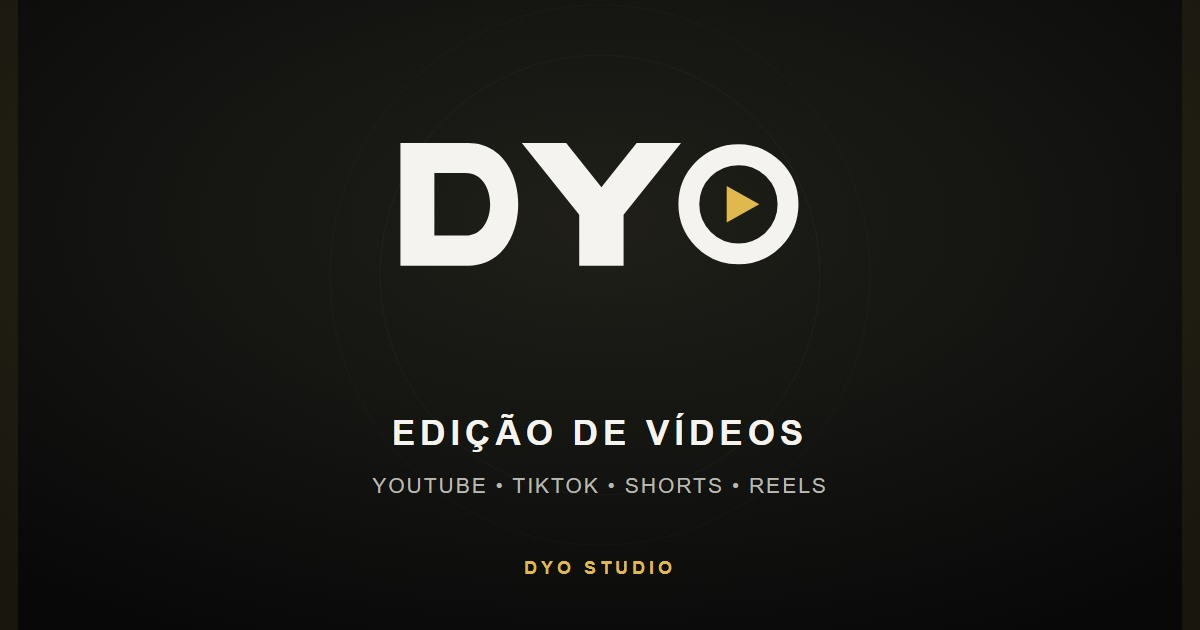
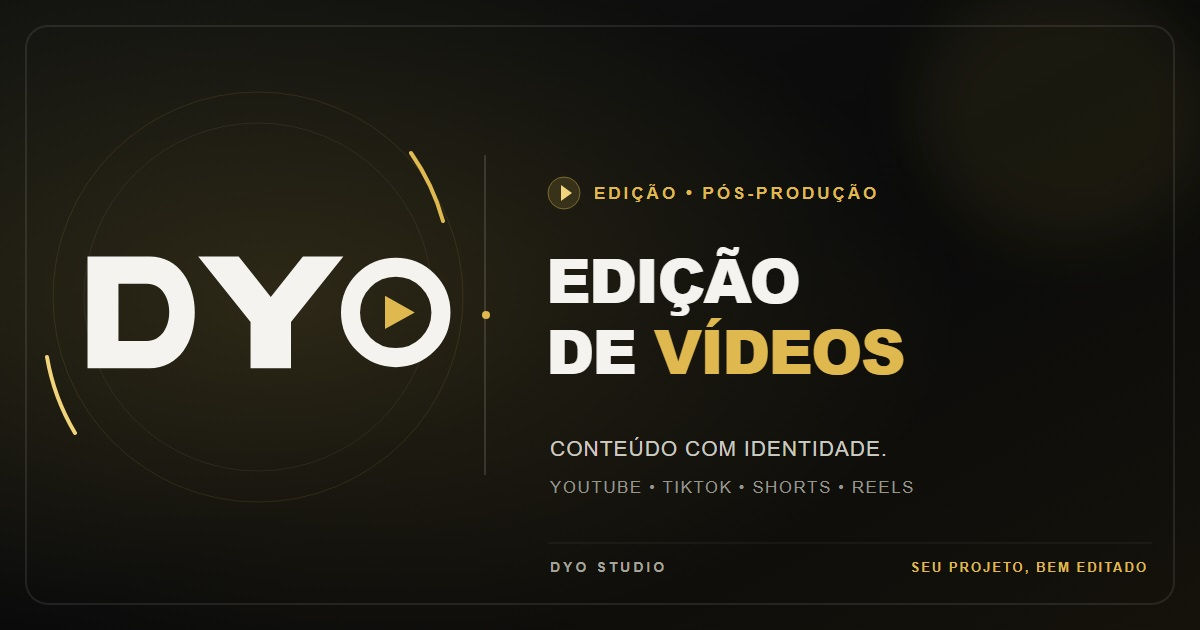
Melhora a imagem de compartilhamento

diff --git a/index.html b/index.html
@@ -39,7 +39,7 @@
   <meta property="og:type" content="website" />
   <meta property="og:url" content="https://digas221960-wq.github.io/dyooo/" />
   <meta property="og:site_name" content="DYO Studio" />
-  <meta property="og:image" content="https://digas221960-wq.github.io/dyooo/img/social/og-image.jpg?v=4" />
+  <meta property="og:image" content="https://digas221960-wq.github.io/dyooo/img/social/og-image.jpg?v=5" />
   <meta property="og:image:alt" content="Logo DYO Studio — edição de vídeos para YouTube, TikTok, Shorts e Reels" />
   <meta property="og:image:type" content="image/jpeg" />
   <meta property="og:image:width" content="1200" />
@@ -50,7 +50,7 @@
   <meta name="twitter:card" content="summary_large_image" />
   <meta name="twitter:title" content="DYO Studio — Edição de Vídeos" />
   <meta name="twitter:description" content="Edição profissional pra YouTube, TikTok, Shorts e Reels." />
-  <meta name="twitter:image" content="https://digas221960-wq.github.io/dyooo/img/social/og-image.jpg?v=4" />
+  <meta name="twitter:image" content="https://digas221960-wq.github.io/dyooo/img/social/og-image.jpg?v=5" />
 
   <title>DYO Studio — Edição de Vídeos</title>
 
